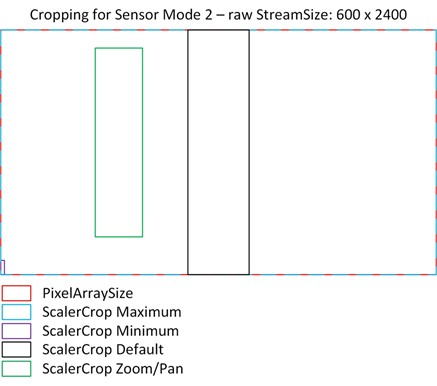
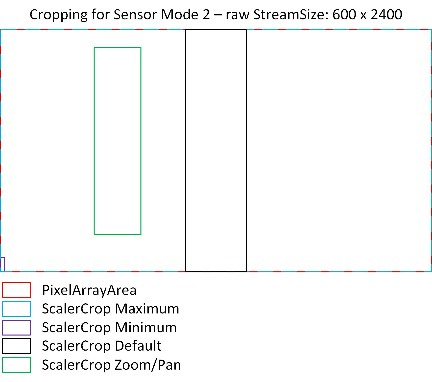
V4.10.4 - Fix libcamera breaking change

Changed region(s): [[0.0, 0.0, 1.0, 0.9791], [0.2106, 0.5759, 0.331, 0.6335], [0.2106, 0.1152, 0.331, 0.1728]]

diff --git a/raspiCamSrv/camera_pi.py b/raspiCamSrv/camera_pi.py
@@ -2918,7 +2918,13 @@ class Camera:
                 cfgProps.unitCellSize = camPprops["UnitCellSize"]
             cfgProps.location = camPprops["Location"]
             cfgProps.rotation = camPprops["Rotation"]
-            cfgProps.pixelArraySize = camPprops["PixelArraySize"]
+            if "PixelArraySize" in camPprops:
+                cfgProps.pixelArraySize = camPprops["PixelArraySize"]
+            else:
+                cfgProps.pixelArraySize = [camPprops["PixelArrayArea"][2], camPprops["PixelArrayArea"][3]]
+            logger.debug(
+                "Thread %s: Camera.loadCameraSpecifics cfgProps.pixelArraySize: %s", get_ident(), cfgProps.pixelArraySize
+            )
             cfgProps.pixelArrayActiveAreas = camPprops["PixelArrayActiveAreas"]
             cfgProps.colorFilterArrangement = camPprops["ColorFilterArrangement"]
             cfgProps.scalerCropMaximum = camPprops["ScalerCropMaximum"]
@@ -2931,12 +2937,20 @@ class Camera:
             cfgProps.hasHdr = "HdrMode" in Camera.cam.camera_controls
 
             if cfgCtrls.include_scalerCrop == False:
-                cfgCtrls.scalerCrop = (
-                    0,
-                    0,
-                    camPprops["PixelArraySize"][0],
-                    camPprops["PixelArraySize"][1],
-                )
+                if "PixelArraySize" in camPprops:
+                    cfgCtrls.scalerCrop = (
+                        0,
+                        0,
+                        camPprops["PixelArraySize"][0],
+                        camPprops["PixelArraySize"][1],
+                    )
+                else:
+                    cfgCtrls.scalerCrop = (
+                        0,
+                        0,
+                        camPprops["PixelArrayArea"][2],
+                        camPprops["PixelArrayArea"][3],
+                    )
                 # This must be updated after the camera has been started
                 Camera.resetScalerCropRequested = True
             logger.debug(
@@ -3478,7 +3492,10 @@ class Camera:
                     scfg["is_ok"] = True
                     camPprops = cls.cam2.camera_properties
                     hasFocus = "AfMode" in cls.cam2.camera_controls
-                    pixelArraySize = copy.copy(camPprops["PixelArraySize"])
+                    if "PixelArraySize" in camPprops:
+                        pixelArraySize = copy.copy(camPprops["PixelArraySize"])
+                    else:
+                        pixelArraySize = [copy.copy(camPprops["PixelArrayArea"][2]), copy.copy(camPprops["PixelArrayArea"][3])]
                     sensorModes = copy.copy(cls.cam2.sensor_modes)
                     maxMode = len(sensorModes) - 1
                     liveViewConfig = CameraConfig()

diff --git a/raspiCamSrv/version.py b/raspiCamSrv/version.py
@@ -1,1 +1,1 @@
-version="V4.10.3"
+version="V4.10.4"

diff --git a/docs/ScalerCrop.md b/docs/ScalerCrop.md
@@ -3,11 +3,13 @@
 [![Up](img/goup.gif)](./ZoomPan.md)
 
 
-## Pixel Array Size and Sensor Modes
+## Pixel Array Area and Sensor Modes
 
-Raspberry Pi cameras have sensors with various Pixel Array Sizes which are shown in the [Camera Properies](./Information_CamPrp.md) section of the [Info](./Information.md) screen.
+**NOTE**: *PixelArrayArea* was named *PixelArraySize* in libcamera versions older than v0.7.2+rpt20261009 (see [libcamera commit fd88c9fa](https://gitlab.com/libcamera/ci/-/commit/fd88c9fa80f3f6925fbe703b813fcb6db648fa69))
 
-For example, the V3 camera (Imx708) has a PixelArraySize of 4608 x 2592 pixels.
+Raspberry Pi cameras have sensors with various Pixel Array Areas which are shown in the [Camera Properies](./Information_CamPrp.md) section of the [Info](./Information.md) screen.
+
+For example, the V3 camera (Imx708) has a PixelArrayArea of 4608 x 2592 pixels.
 
 ![SensorModes](./img/Cropping_SensorModes.jpg)
 
@@ -19,7 +21,7 @@ Each Sensor Mode is characterized by (among others)
 
 - a Bit Depth
 - a Frame Rate
-- a specific field of view (Crop Limits) which either spans the entire PixelArraySize or a subarea of it.
+- a specific field of view (Crop Limits) which either spans the entire PixelArrayArea or a subarea of it.
 - an output size which specifies the resolution of the image obtained with this Sensor Mode.   
 Here, an image pixel corresponds to a single sensor pixel or a group of 2x2 pixels.   
 The output sizes for Imx708 are    
@@ -45,7 +47,7 @@ Only width and height are relevant and width and height of the effective ScalerC
 - Scaler Crop Default     
 This is the default ScalerCrop rectangle which will always be chosen by the camera if an effective ScalerCrop rectangle is not requested within the Camera Properties.    
 
-Whereas in a standard case, ScalerCrop Maximum and ScalerCrop Default cover the entire PixelArraySize, the pictures below show the situation for two extreme cases:
+Whereas in a standard case, ScalerCrop Maximum and ScalerCrop Default cover the entire PixelArrayArea, the pictures below show the situation for two extreme cases:
 
 ![ScalerCrop Sensor Mode 0](./img/Cropping_ScalerCrop_0.jpg) &nbsp; ![ScalerCrop Sensor Mode 0](./img/Cropping_ScalerCrop_2.jpg)
 

diff --git a/docs/ReleaseNotes.md b/docs/ReleaseNotes.md
@@ -2,6 +2,16 @@
 
 [![Up](img/goup.gif)](./index.md)
 
+## V4.10.4
+
+### Bugfixes
+
+- Fixed KeyError: 'PixelArraySize' which occurred for new libcamera versions (v0.7.2+rpt20261009 and later).
+<br>There was a breaking change in libcamera (see [libcamera issue #364](https://github.com/raspberrypi/libcamera/issues/364)) where the camera property ```PixelArraySize``` was renamed to ```PixelArrayArea``` and changed from a (width, height) tuple to a rectangle.
+<br>The fix works for old and new libcamera versions.
+<br>Inside raspiCamSrv, a property ```pixelArraySize``` is retained but it s populated from the camera property ```PixelArrayArea``` for new libcamera versions.
+<br>This fix resolves [raspiCamSrv issue #100](https://github.com/signag/raspi-cam-srv/issues/100)
+
 ## V4.10.3
 
 ### Bugfixes

diff --git a/README.md b/README.md
@@ -1,4 +1,4 @@
-# raspiCamSrv V4.10.3
+# raspiCamSrv V4.10.4
 
 **raspiCamSrv** is a Web server for Raspberry Pi systems providing an App for control and streaming of CSI and USB cameras as well as for controlling a large variety of connected GPIO devices.
 
